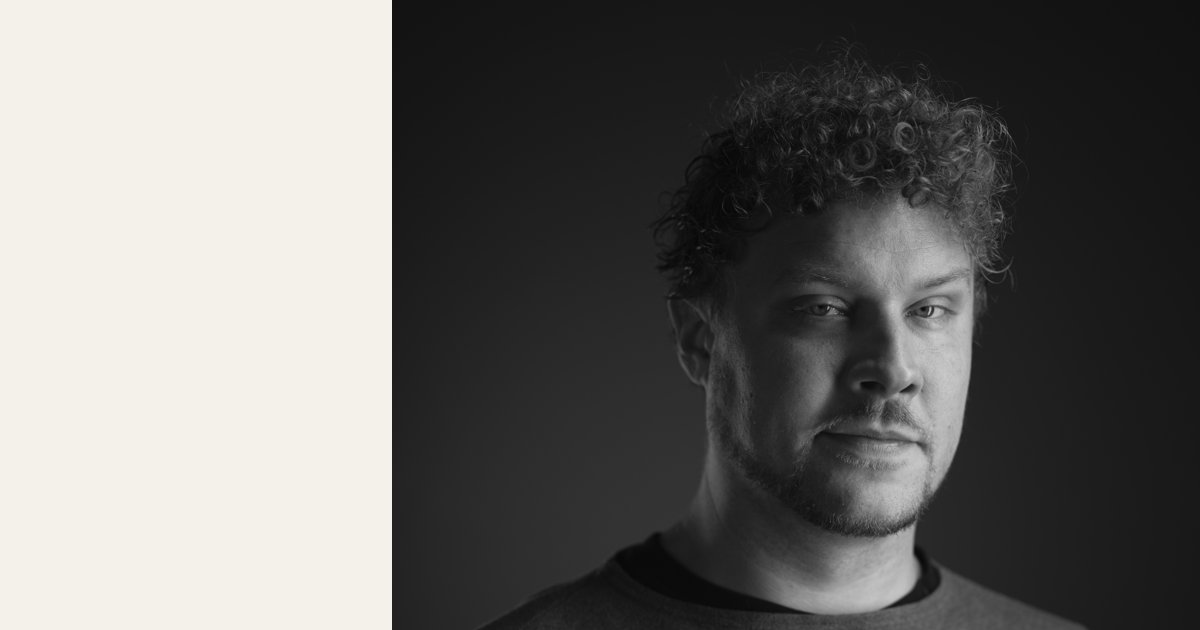
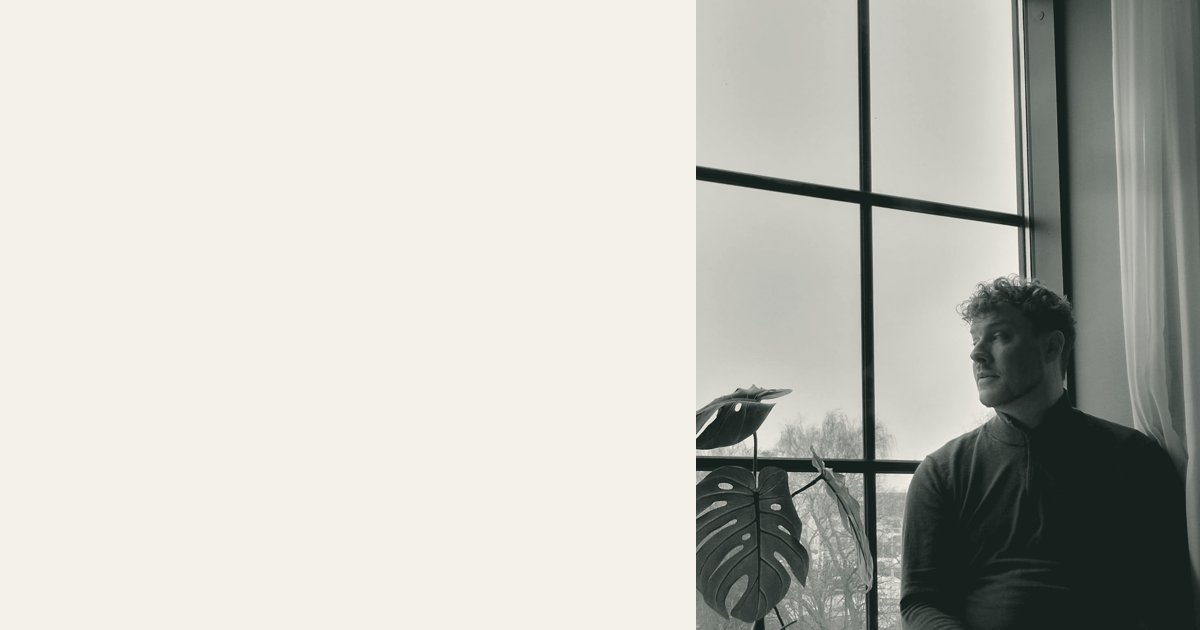
New hero photo (duotone), wide dog photo in Off duty, 404 page, wrangler.jsonc for Workers Builds

diff --git a/src/styles/global.css b/src/styles/global.css
@@ -118,7 +118,7 @@ nav { margin-left: auto; }
 .btn-ghost { border: 1px solid var(--line); }
 .btn-ghost:hover { border-color: var(--ink); }
 .hero-portrait { position: relative; }
-.hero-portrait img { width: 100%; aspect-ratio: 4 / 5; object-fit: cover; object-position: 58% 30%; border-radius: var(--radius-sm); filter: contrast(1.04); }
+.hero-portrait img { width: 100%; aspect-ratio: 4 / 5; object-fit: cover; object-position: 50% 50%; border-radius: var(--radius-sm); }
 .hero-portrait figcaption { margin-top: var(--space-3); font-size: var(--text-xs); color: var(--muted); letter-spacing: 0.04em; }
 
 /* Numbers */
@@ -177,12 +177,8 @@ nav { margin-left: auto; }
 /* Off duty */
 .offduty { background: var(--surface); padding-block: clamp(var(--space-16), 8vw, var(--space-24)); }
 .offduty-intro { font-size: var(--text-lg); line-height: 1.5; max-width: 52ch; }
-.offduty-photos { display: grid; grid-template-columns: 2fr 1fr; gap: var(--space-3); margin-top: var(--space-12); }
-.offduty-photos figure { aspect-ratio: auto; overflow: hidden; border-radius: var(--radius-sm); }
-.offduty-photos figure:first-child { aspect-ratio: 1400 / 1230; }
-.offduty-photos img { width: 100%; height: 100%; object-fit: cover; }
-.offduty-photos figure:last-child { position: relative; }
-.offduty-photos figure:last-child img { position: absolute; inset: 0; object-position: 50% 40%; }
+.offduty-photo { margin-top: var(--space-12); }
+.offduty-photo img { width: 100%; aspect-ratio: 2 / 1; object-fit: cover; border-radius: var(--radius-sm); }
 .offduty-list { display: grid; grid-template-columns: repeat(2, 1fr); gap: 0 clamp(var(--space-8), 6vw, var(--space-24)); margin-top: var(--space-12); border-top: 1px solid var(--line); }
 .offduty-item { display: grid; grid-template-columns: 7rem 1fr; gap: var(--space-4); padding-block: var(--space-6); border-bottom: 1px solid var(--line); }
 .offduty-item .label { padding-top: 0.3em; }
@@ -208,7 +204,7 @@ nav { margin-left: auto; }
 @media (max-width: 900px) {
   .hero-grid { grid-template-columns: 1fr; }
   .hero-portrait { order: -1; max-width: 26rem; }
-  .hero-portrait img { aspect-ratio: 1 / 1; }
+  .hero-portrait img { aspect-ratio: 1 / 1; object-position: 72% 70%; }
   .numbers-grid { grid-template-columns: repeat(2, 1fr); }
   .number:nth-child(3) { border-left: 0; padding-left: 0; }
   .number:nth-child(n + 3) { border-top: 1px solid var(--line); }

diff --git a/src/data/profile.ts b/src/data/profile.ts
@@ -147,7 +147,7 @@ export const offDuty = {
   items: [
     {
       label: "Family",
-      text: "A young daughter, a partner and two dogs, a Jack Russell and a Dalmatian, who prefer to sleep in the same bed.",
+      text: "A young daughter, a partner and two dogs, a Jack Russell and a Dalmatian, who prefer to nap side by side.",
     },
     {
       label: "Outdoors",
@@ -162,18 +162,10 @@ export const offDuty = {
       text: "Following AI development closely and trying new tools as they ship, from coding agents to personal assistants.",
     },
   ],
-  photos: [
-    {
-      src: "/img/window-800.webp",
-      srcset: "/img/window-800.webp 800w, /img/window-1400.webp 1400w",
-      width: 1400, height: 1230,
-      alt: "Oskar sitting by a tall window next to a monstera plant",
-    },
-    {
-      src: "/img/dogs-400.webp",
-      srcset: "/img/dogs-400.webp 400w, /img/dogs-700.webp 700w",
-      width: 700, height: 1244,
-      alt: "A Jack Russell and a Dalmatian asleep next to each other on a fluffy blanket",
-    },
-  ],
+  photo: {
+    src: "/img/dogs-wide-900.webp",
+    srcset: "/img/dogs-wide-900.webp 900w, /img/dogs-wide-1600.webp 1600w",
+    width: 1600, height: 800,
+    alt: "A Jack Russell and a Dalmatian asleep side by side on a fluffy blanket",
+  },
 };
